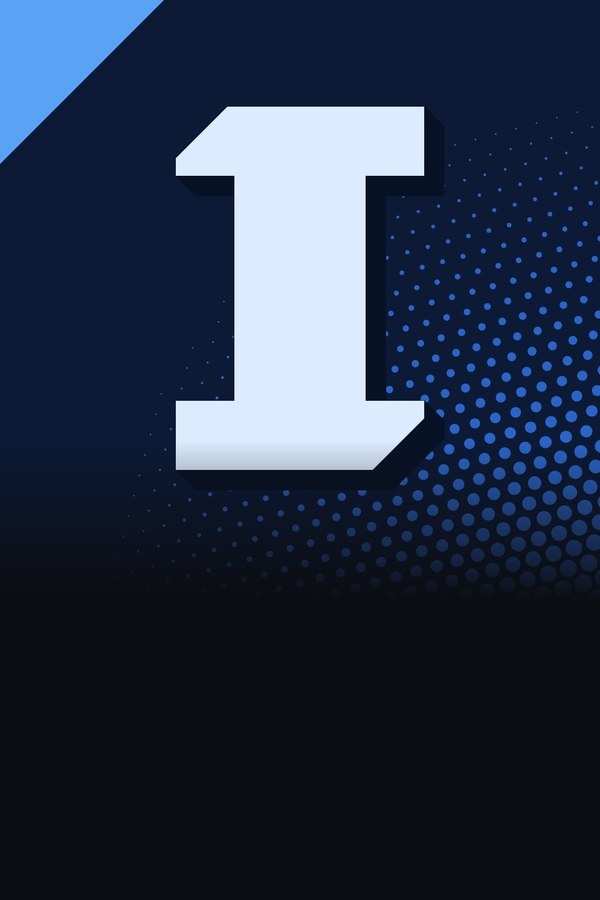
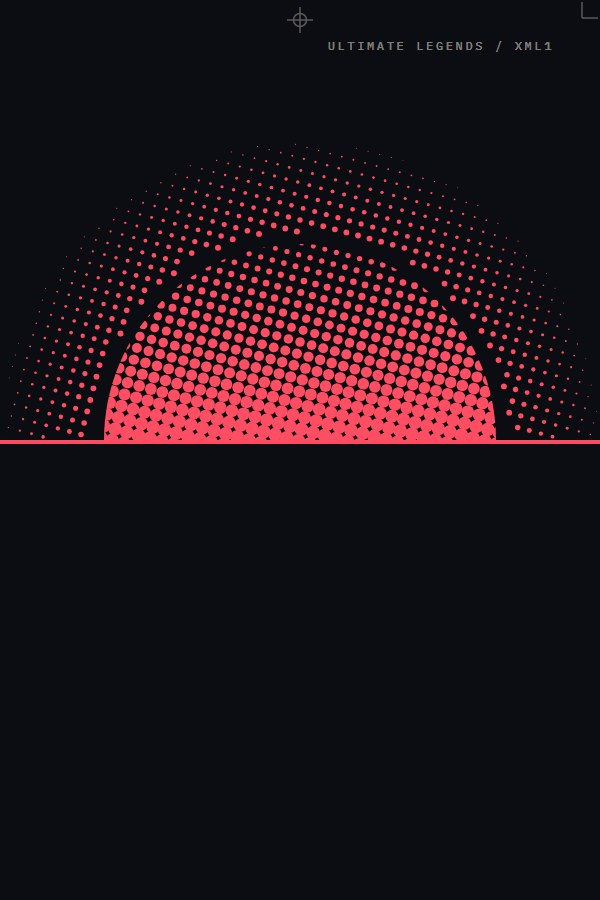
art: one X-Men Legends identity - sunrise library card + Discord target
The XML1 library card was the XML2 Fix's Discord "I" art (sources/xml1-large-d.png via
capsule_art). Drop that override so the card is drawn from the dawn motif like the other
four (ULTIMATE LEGENDS / XML1 slug, same layout); only xml1/capsule.jpg is re-rendered.

Add a Discord target (--render --only discord) that draws the XML2 Fix's X-Men Legends
Rich Presence set in the same motif into the git-ignored discord-upload/xml1/: app-icon
and logo (the sunrise mark on Ink), cover (the card composition, 1920x1080) and the
menu / online / cutscene / dangerroom badges (same glyphs, Ink on Dawn Crimson), plus a
contact sheet at Discord's ~80 px / ~24 px sizes. motif_dawn gains optional floor/sky
knobs whose defaults leave every launcher page byte-identical.

edge_shot now waits for the screenshot and for Edge to release its profile: msedge.exe
can return before the file is written, which made --render fail and could overlap shots.

diff --git a/docs/art-source/build.py b/docs/art-source/build.py
@@ -20,6 +20,7 @@ import shutil
 import subprocess
 import sys
 import tempfile
+import time
 from pathlib import Path
 
 HERE = Path(__file__).resolve().parent
@@ -28,6 +29,9 @@ HTML_DIR = HERE / "html"
 GAMES_OUT = REPO / "src" / "launcher-ui" / "assets" / "img" / "games"
 BRAND_OUT = REPO / "src" / "launcher-ui" / "assets" / "img" / "brand"
 APP_RES = REPO / "src" / "launcher" / "resource"
+# Discord Rich Presence art for the XML2 Fix's apps (uploaded by hand in the developer portal;
+# not shipped with the launcher, so the folder is git-ignored)
+DISCORD_OUT = REPO / "discord-upload"
 
 EDGE = os.environ.get(
     "EDGE", r"C:\Program Files (x86)\Microsoft\Edge\Application\msedge.exe"
@@ -114,9 +118,6 @@ GAMES = {
         "sub": None,
         "soon": True,
         "concept": "A sun rising over the horizon, printed only in halftone - the first Legends, still coming up.",
-        # The library tile is the XML2 Fix's Discord art for the port (original art, xml2-fix
-        # docs/discord-art/xml1-large-d.svg), faded into Ink like the drawn capsules.
-        "capsule_art": "sources/xml1-large-d.png",
     },
 }
 
@@ -302,8 +303,10 @@ def motif_dawn(g, W, H, ctx):
     cx, hy, r = ctx["cx"], ctx["horizon"], ctx["r"]
     top = hy - r
 
+    floor = ctx.get("floor", 0.12)  # ink coverage at the top of the sun
+
     def field(x, y):
-        return 0.12 + 0.88 * clamp((y - top) / r) ** 1.3
+        return floor + (1 - floor) * clamp((y - top) / r) ** 1.3
 
     path = f"M{f(cx - r)},{f(hy)} A{f(r)},{f(r)} 0 0 1 {f(cx + r)},{f(hy)} Z"
     dots = halftone((cx - r, top, cx + r, hy), field, ctx["pitch"], angle=15)
@@ -312,7 +315,7 @@ def motif_dawn(g, W, H, ctx):
         dist = math.hypot(x - cx, y - hy)
         if y > hy - 2 or dist < r + ctx["pitch"]:
             return 0
-        return 0.22 * clamp(1 - (dist - r) / ctx["glow"]) ** 1.5
+        return ctx.get("sky", 0.22) * clamp(1 - (dist - r) / ctx["glow"]) ** 1.5
 
     skydots = halftone((max(0, cx - r - ctx["glow"]), 0, min(W, cx + r + ctx["glow"]), hy), sky, ctx["pitch"], angle=15)
     hx0, hx1 = ctx["hline"]
@@ -602,6 +605,146 @@ def brand_board_inner():
 
 
 # --------------------------------------------------------------------------
+# Discord Rich Presence art (the XML2 Fix's Discord applications)
+# --------------------------------------------------------------------------
+# Keys as the XML2 Fix sends them (src/discord_rules.hpp in xml2-fix): "logo" is the large image,
+# the four badges are the small image for the mode. "app-icon" and "cover" are the application's
+# icon and cover image in the developer portal. Discord crops small images (and app icons in some
+# views) to a circle, so every glyph stays inside the inscribed circle.
+DISCORD_GAMES = ["xml1"]
+DISCORD_BADGES = ["menu", "online", "cutscene", "dangerroom"]
+
+
+def discord_mark_inner(gid):
+    """1024x1024: the game's motif as a mark on Ink, bold enough to read at ~80 px."""
+    g = GAMES[gid]
+    ctx = dict(uid=f"{gid}-dmark", cx=512, horizon=668, r=318, pitch=26, glow=170,
+               hline=(96, 928), hw=30, floor=0.3, sky=0.3)
+    return svg_layer(1024, 1024, MOTIFS[g["motif"]](g, 1024, 1024, ctx))
+
+
+def discord_cover_inner(gid):
+    """1920x1080: the library-card composition - motif, print marks, slug line - in landscape."""
+    g = GAMES[gid]
+    W, H = 1920, 1080
+    ctx = dict(uid=f"{gid}-dcover", cx=960, horizon=706, r=336, pitch=16, glow=220,
+               hline=(0, W), hw=6, floor=0.18)
+    art = MOTIFS[g["motif"]](g, W, H, ctx)
+    code = (f'<div style="position: absolute; right: 78px; top: 66px; {MONO}; font-weight: 500; font-size: 20px; '
+            f'letter-spacing: 0.22em; color: {PAPER}; opacity: 0.5; line-height: 1; white-space: nowrap">'
+            f'ULTIMATE LEGENDS / {gid.upper()}</div>')
+    return svg_layer(W, H, art + print_marks(W, H, inset=30, length=26)) + code
+
+
+def discord_badge_glyph(kind):
+    """The mode badges' glyphs on the 16-unit grid (same meanings as the XML2 Fix's badges)."""
+    if kind == "menu":  # three bars
+        return "".join(f'<rect x="4.1" y="{y}" width="7.8" height="1.5"/>' for y in (4.6, 7.25, 9.9))
+    if kind == "online":  # a dot broadcasting two pairs of arcs
+        arcs = []
+        for R in (3.3, 5.5):
+            a = math.radians(42)
+            dx, dy = R * math.cos(a), R * math.sin(a)
+            arcs.append(f'<path d="M{f(8 + dx)},{f(8 - dy)} A{f(R)},{f(R)} 0 0 1 {f(8 + dx)},{f(8 + dy)}"/>')
+            arcs.append(f'<path d="M{f(8 - dx)},{f(8 + dy)} A{f(R)},{f(R)} 0 0 1 {f(8 - dx)},{f(8 - dy)}"/>')
+        return (f'<g fill="none" stroke="{INK}" stroke-width="1.4">{"".join(arcs)}</g>'
+                '<circle cx="8" cy="8" r="1.4"/>')
+    if kind == "cutscene":  # play
+        return '<polygon points="6,4.3 12.3,8 6,11.7"/>'
+    if kind == "dangerroom":  # crosshair: ring, four ticks, centre dot
+        ticks = ('<rect x="7.35" y="1.9" width="1.3" height="3.9"/><rect x="7.35" y="10.2" width="1.3" height="3.9"/>'
+                 '<rect x="1.9" y="7.35" width="3.9" height="1.3"/><rect x="10.2" y="7.35" width="3.9" height="1.3"/>')
+        return (f'<circle cx="8" cy="8" r="3.6" fill="none" stroke="{INK}" stroke-width="1.3"/>'
+                + ticks + '<circle cx="8" cy="8" r="1.1"/>')
+    raise KeyError(kind)
+
+
+def discord_badge_inner(gid, kind, size_px=1024):
+    """A full-bleed accent square (Discord rounds it) with an Ink glyph and a whisper of Ben-Day dots."""
+    acc = GAMES[gid]["accent"]
+    dots = halftone((0, 0, 16, 16), lambda x, y: 0.6 * smooth(10, 27, x + y) ** 1.2, 0.72, angle=45, rmin=0.03)
+    return (f'<svg xmlns="http://www.w3.org/2000/svg" viewBox="0 0 16 16" width="{size_px}" height="{size_px}" '
+            f'style="position: absolute; left: 0; top: 0; display: block">'
+            f'<rect x="0" y="0" width="16" height="16" fill="{acc}"/>'
+            f'<g fill="{INK}" opacity="0.16">{dots}</g>'
+            f'<g fill="{INK}">{discord_badge_glyph(kind)}</g></svg>')
+
+
+def discord_contact_sheet(gid, files, out):
+    """All seven files small, then at Discord's sizes: ~80 px large image with the ~24 px badge."""
+    from PIL import Image, ImageDraw, ImageFont
+
+    def font(sz):
+        for name in ("arialbd.ttf", "arial.ttf", "DejaVuSans.ttf"):
+            try:
+                return ImageFont.truetype(name, sz)
+            except OSError:
+                pass
+        return ImageFont.load_default()
+
+    def rounded(im, radius):
+        m = Image.new("L", (im.width * 4, im.height * 4), 0)
+        ImageDraw.Draw(m).rounded_rectangle((0, 0, m.width - 1, m.height - 1), radius * 4, fill=255)
+        return m.resize(im.size, Image.Resampling.LANCZOS)
+
+    def circle(size):
+        m = Image.new("L", (size * 4, size * 4), 0)
+        ImageDraw.Draw(m).ellipse((0, 0, m.width - 1, m.height - 1), fill=255)
+        return m.resize((size, size), Image.Resampling.LANCZOS)
+
+    def presence(bg, badge, large=80, small=24, ring=3):
+        """A large image with a small badge at its bottom-right corner, as a Discord activity shows it."""
+        tile = Image.new("RGB", (large + small // 3, large + small // 3), bg)
+        big = files["logo"].resize((large, large), Image.Resampling.LANCZOS)
+        tile.paste(big, (0, 0), rounded(big, 8))
+        if badge:
+            bx = by = large - small + small // 3 - 2
+            ImageDraw.Draw(tile).ellipse((bx - ring, by - ring, bx + small + ring - 1, by + small + ring - 1), fill=bg)
+            b = files[badge].resize((small, small), Image.Resampling.LANCZOS)
+            tile.paste(b, (bx, by), circle(small))
+        return tile
+
+    keys = ["app-icon", "logo", "cover"] + DISCORD_BADGES
+    sheet = Image.new("RGB", (1660, 1270), "#1E1F22")
+    d = ImageDraw.Draw(sheet)
+    t, lab = font(22), font(15)
+    d.text((40, 26), f"Discord art / {gid.upper()} - upload set ({len(keys)} files, shown small)", font=t, fill=PAPER)
+    x = 40
+    for k in keys:
+        im = files[k]
+        th = 160
+        tw = round(im.width * th / im.height)
+        sheet.paste(im.resize((tw, th), Image.Resampling.LANCZOS), (x, 70))
+        d.text((x, 240), f"{k}.png", font=lab, fill="#B5BAC1")
+        d.text((x, 260), f"{im.width}x{im.height}", font=lab, fill="#80848E")
+        x += tw + 30
+
+    for row, (bg, name) in enumerate((("#2B2D31", "dark"), ("#FFFFFF", "light"))):
+        y0 = 310 + row * 480
+        d.rectangle((40, y0, 1620, y0 + 450), fill=bg)
+        ink = "#B5BAC1" if name == "dark" else "#4E5058"
+        d.text((60, y0 + 14), f"Discord sizes, {name} theme: large ~80 px + small ~24 px badge, app icon 80 px circle, "
+               "badges alone at 24 px; below, the first four at 3x (pixel zoom)", font=lab, fill=ink)
+        strip = Image.new("RGB", (1000, 110), bg)
+        sx = 0
+        for badge in [None] + DISCORD_BADGES:
+            p = presence(bg, badge)
+            strip.paste(p, (sx, 10))
+            sx += p.width + 18
+        icon = files["app-icon"].resize((80, 80), Image.Resampling.LANCZOS)
+        strip.paste(icon, (sx + 10, 10), circle(80))
+        sx += 120
+        for badge in DISCORD_BADGES:
+            b = files[badge].resize((24, 24), Image.Resampling.LANCZOS)
+            strip.paste(b, (sx, 38), circle(24))
+            sx += 34
+        sheet.paste(strip, (60, y0 + 44))
+        zoom = strip.crop((0, 10, 424, 98)).resize((1272, 264), Image.Resampling.NEAREST)
+        sheet.paste(zoom, (60, y0 + 166))
+    sheet.save(out, optimize=True)
+
+
+# --------------------------------------------------------------------------
 # Outputs
 # --------------------------------------------------------------------------
 
@@ -622,6 +765,12 @@ def jobs():
     out.append(("brand/app-icon-small", 512, 512, brand_svg("small", 512, pad=False), None))
     out.append(("brand/app-icon-small-480", 480, 480, brand_svg("small", 480, pad=False), None))
     out.append(("brand/brand-sheet", 1280, 720, brand_board_inner(), INK))
+    for gid in DISCORD_GAMES:
+        # "logo" is also saved as "app-icon": the application icon is the same mark
+        out.append((f"discord-{gid}/logo", 1024, 1024, discord_mark_inner(gid), INK))
+        out.append((f"discord-{gid}/cover", 1920, 1080, discord_cover_inner(gid), INK))
+        for kind in DISCORD_BADGES:
+            out.append((f"discord-{gid}/{kind}", 1024, 1024, discord_badge_inner(gid, kind), GAMES[gid]["accent"]))
     return out
 
 
@@ -645,21 +794,19 @@ def edge_shot(html, png, W, H, transparent, profile):
         args.append("--default-background-color=00000000")
     args.append(html.as_uri())
     subprocess.run(args, check=True, stdout=subprocess.DEVNULL, stderr=subprocess.DEVNULL, timeout=120)
-
-
-def capsule_from_art(path):
-    """A 600x900 capsule from a square piece of original art: the art across the top, faded into
-    Ink over CAPSULE_FADE like the drawn capsules, so the library card's title and button read."""
-    from PIL import Image
-
-    art = Image.open(path).convert("RGB").resize((600, 600), Image.Resampling.LANCZOS)
-    tile = Image.new("RGB", (600, 900), INK)
-    tile.paste(art, (0, 0))
-    f0, f1 = CAPSULE_FADE
-    mask = Image.new("L", (600, 900), 0)
-    for y in range(f0, 900):
-        mask.paste(min(255, round(255 * (y - f0) / (f1 - f0))), (0, y, 600, y + 1))
-    return Image.composite(Image.new("RGB", (600, 900), INK), tile, mask)
+    # msedge.exe can return before its browser process has written the screenshot. Wait for the
+    # file and for the browser to release the profile (Chromium's "lockfile"), so renders never
+    # overlap and the next shot does not reuse a profile that is still open.
+    lock = Path(profile) / "lockfile"
+    deadline = time.monotonic() + 120
+    size = -1
+    while time.monotonic() < deadline:
+        cur = png.stat().st_size if png.exists() else -1
+        if cur > 0 and cur == size and not lock.exists():
+            return
+        size = cur
+        time.sleep(0.5)
+    raise RuntimeError(f"Edge did not finish {png.name} within 120 s")
 
 
 def render(written):
@@ -703,9 +850,7 @@ def render(written):
         d = GAMES_OUT / gid
         d.mkdir(parents=True, exist_ok=True)
         if has(f"{gid}/capsule"):
-            art = GAMES[gid].get("capsule_art")
-            capsule = capsule_from_art(HERE / art) if art else shots[f"{gid}/capsule"].convert("RGB")
-            capsule.save(d / "capsule.jpg", quality=88, optimize=True, progressive=True)
+            shots[f"{gid}/capsule"].convert("RGB").save(d / "capsule.jpg", quality=88, optimize=True, progressive=True)
         if has(f"{gid}/hero"):
             shots[f"{gid}/hero"].convert("RGB").save(d / "hero.jpg", quality=88, optimize=True, progressive=True)
         if has(f"{gid}/logo"):
@@ -724,6 +869,22 @@ def render(written):
         preview = HERE / "preview"
         preview.mkdir(exist_ok=True)
         shots["brand/brand-sheet"].convert("RGB").save(preview / "brand-sheet.jpg", quality=88)
+    for gid in DISCORD_GAMES:
+        keys = ["logo", "cover"] + DISCORD_BADGES
+        if not any(has(f"discord-{gid}/{k}") for k in keys):
+            continue
+        d = DISCORD_OUT / gid
+        d.mkdir(parents=True, exist_ok=True)
+        for k in keys:
+            if has(f"discord-{gid}/{k}"):
+                im = shots[f"discord-{gid}/{k}"].convert("RGB")
+                im.save(d / f"{k}.png", optimize=True)
+                if k == "logo":
+                    im.save(d / "app-icon.png", optimize=True)
+        names = ["app-icon"] + keys
+        if all((d / f"{k}.png").exists() for k in names):
+            files = {k: Image.open(d / f"{k}.png").convert("RGB") for k in names}
+            discord_contact_sheet(gid, files, DISCORD_OUT / f"{gid}-contact-sheet.png")
     shutil.rmtree(tmp, ignore_errors=True)
 
 
@@ -821,7 +982,7 @@ def main():
     ap.add_argument("--canvas", metavar="DIR", help="write Claude Design canvas artboards to DIR")
     ap.add_argument("--only", metavar="KIND", nargs="+",
                     help="with --render: only render jobs whose name contains one of these words "
-                         "(e.g. --only capsule, --only hero logo, --only mua2/)")
+                         "(e.g. --only capsule, --only hero logo, --only mua2/, --only discord)")
     a = ap.parse_args()
     written = write_html()
     print(f"wrote {len(written)} HTML sources to {HTML_DIR}")

diff --git a/docs/art-source/README.md b/docs/art-source/README.md
@@ -32,11 +32,9 @@ Game titles appear only as plain text in Archivo.
 Coming-soon games are drawn partly "unprinted" (halftone or outline instead of solid ink).
 The launcher adds its own COMING SOON badge, so the images do not include one.
 
-One capsule is not drawn here: the `xml1` library tile is the XML2 Fix's Discord art for the
-X-Men Legends port (`sources/xml1-large-d.png`, original art from xml2-fix
-`docs/discord-art/xml1-large-d.svg`), placed across the top and faded into Ink like the others
-by `capsule_from_art()` (`capsule_art` in the `GAMES` table). Its hero, logo and icon are drawn
-here as before.
+Every capsule, including `xml1`'s, is drawn here from its motif. The X-Men Legends port shares
+one identity across the launcher and Discord: the `dawn` motif in Dawn Crimson (see
+[Discord art](#discord-art) below).
 
 ## Re-rendering
 
@@ -48,6 +46,7 @@ cd docs/art-source
 python build.py            # regenerate html/ only
 python build.py --render   # regenerate html/ and overwrite every deliverable in the repo
 python build.py --render --only capsule   # re-render just the capsules (also: hero, logo, icon, brand/, mua2/ ...)
+python build.py --render --only discord   # re-render just the Discord art (see below)
 ```
 
 `--render` screenshots each page with headless Edge at 1x (`--window-size` = the asset size,
@@ -60,7 +59,9 @@ transparent background for logos and icons), then:
   drawing of the mark; larger sizes use the refined drawing. Each frame is box-filtered down
   from a supersampled render.
 
-Set `EDGE` to point at another Chromium-based browser if Edge is installed elsewhere.
+Set `EDGE` to point at another Chromium-based browser if Edge is installed elsewhere. Renders run
+one at a time: `msedge.exe` can return before the screenshot is written, so `build.py` waits for the
+file and for Edge to release its profile before the next shot.
 
 Outputs written by `--render`:
 
@@ -70,6 +71,26 @@ src/launcher-ui/assets/img/brand/ul-mark.png
 src/launcher/resource/icon.ico
 src/launcher/resource/icon.png
 ```
+
+## Discord art
+
+`--render` (or `--only discord`) also draws the Rich Presence art for the XML2 Fix's Discord
+application for X-Men Legends, in the same sunrise motif, into the git-ignored `discord-upload/`
+folder at the repository root. It is uploaded by hand in the Discord developer portal and is not
+shipped with the launcher. The keys are the ones the XML2 Fix sends (xml2-fix
+`src/discord_rules.hpp`):
+
+| File (`discord-upload/xml1/`) | Size | What it is |
+| --- | --- | --- |
+| `app-icon.png` | 1024x1024 | Application icon: the sunrise mark on Ink (same image as `logo`) |
+| `logo.png` | 1024x1024 | Rich Presence large image: the sunrise mark on Ink |
+| `cover.png` | 1920x1080 | Application cover: the library-card composition in landscape |
+| `menu.png`, `online.png`, `cutscene.png`, `dangerroom.png` | 1024x1024 | Small-image badges for the mode: three bars, a broadcasting dot, play, a crosshair - Ink on Dawn Crimson |
+
+Discord shows the large image at about 80 px and crops the small image to a circle of about
+24 px, so the mark is drawn with coarse dots and a heavy horizon, and each badge glyph stays inside
+the inscribed circle. `discord-upload/xml1-contact-sheet.png` shows all seven small and at those
+sizes on Discord's dark and light themes. XML2's Discord art is not drawn here.
 
 ## Editing
 
